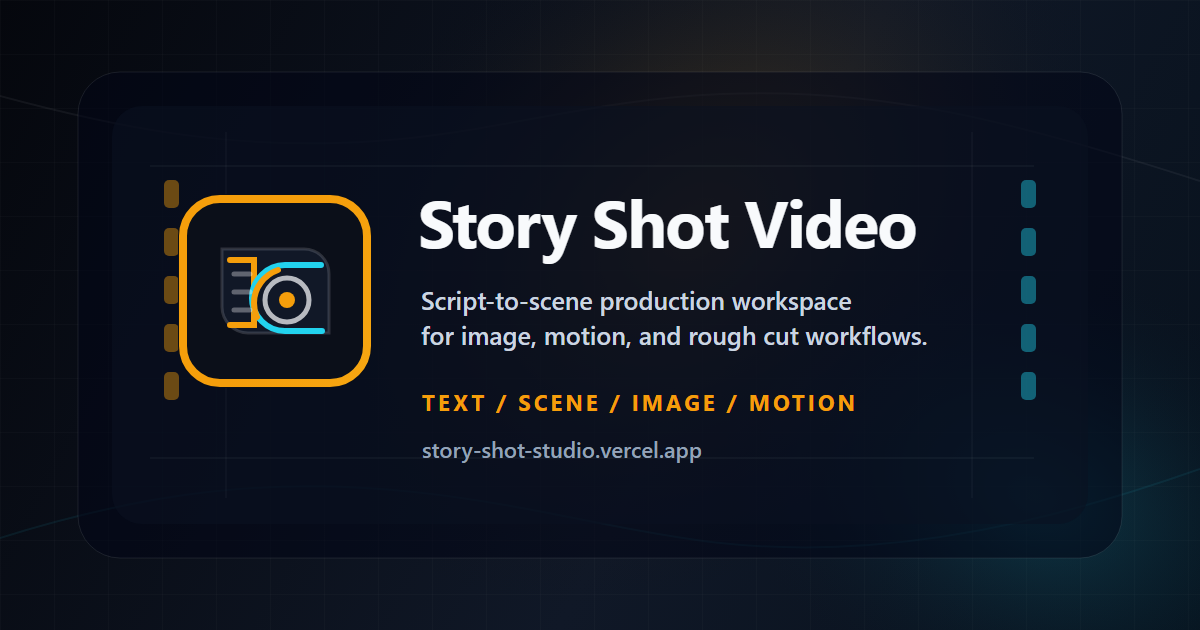
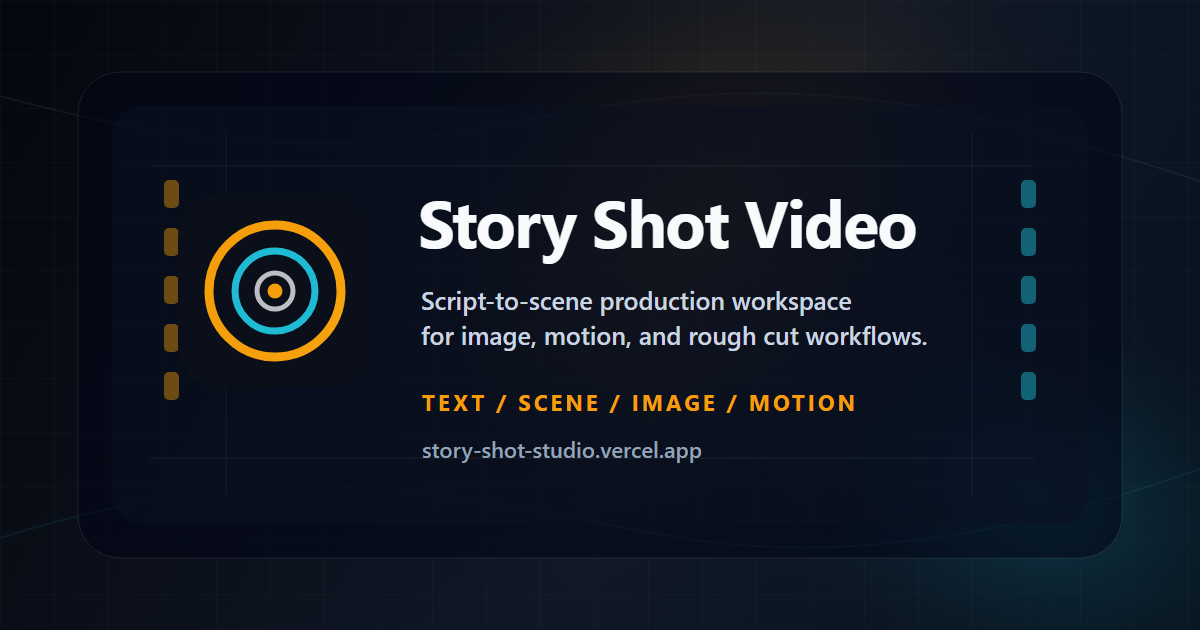
markalaşma v3

Changed region(s): [[0.1233, 0.3016, 0.3083, 0.6333]]

diff --git a/src/components/BrandMark.tsx b/src/components/BrandMark.tsx
@@ -24,26 +24,21 @@ export function BrandIcon({ className }: BrandIconProps) {
       xmlns="http://www.w3.org/2000/svg"
     >
       <defs>
-        <linearGradient id="sss-icon-frame" x1="8" y1="6" x2="41" y2="42" gradientUnits="userSpaceOnUse">
+        <linearGradient id="sss-target-ring" x1="8" y1="7" x2="40" y2="41" gradientUnits="userSpaceOnUse">
           <stop stopColor="#f59e0b" />
           <stop offset="1" stopColor="#22d3ee" />
         </linearGradient>
-        <radialGradient id="sss-icon-glow" cx="0" cy="0" r="1" gradientUnits="userSpaceOnUse" gradientTransform="translate(28 21) rotate(127) scale(22)">
+        <radialGradient id="sss-target-glow" cx="0" cy="0" r="1" gradientUnits="userSpaceOnUse" gradientTransform="translate(24 24) scale(22)">
           <stop stopColor="#f59e0b" stopOpacity="0.35" />
           <stop offset="1" stopColor="#020617" stopOpacity="0" />
         </radialGradient>
       </defs>
       <rect x="2.5" y="2.5" width="43" height="43" rx="12" fill="#0b0f19" />
-      <rect x="2.5" y="2.5" width="43" height="43" rx="12" fill="url(#sss-icon-glow)" />
-      <rect x="4" y="4" width="40" height="40" rx="10.5" stroke="url(#sss-icon-frame)" strokeWidth="2" />
-      <path d="M12 13.5h20.5c3.6 0 6.5 2.9 6.5 6.5v14.5H18.2c-3.7 0-6.7-3-6.7-6.7V13.5Z" fill="#111827" stroke="#f8fafc" strokeOpacity="0.13" />
-      <path d="M13.5 15.5h6.2v17.2h-6.2" stroke="#f59e0b" strokeOpacity="0.8" strokeWidth="1.6" strokeLinecap="round" />
-      <path d="M35.5 17.5h-8.8c-4.6 0-8.4 3.7-8.4 8.4s3.8 8.4 8.4 8.4h9.2" stroke="#22d3ee" strokeOpacity="0.78" strokeWidth="1.7" strokeLinecap="round" />
-      <path d="M25 18.5c-3.5 1.1-6.1 4.4-6.1 8.3 0 1.3.3 2.5.8 3.6" stroke="#f59e0b" strokeWidth="1.7" strokeLinecap="round" />
-      <circle cx="27.3" cy="26.2" r="5.5" stroke="#f8fafc" strokeOpacity="0.72" strokeWidth="1.5" />
-      <circle cx="27.3" cy="26.2" r="2.1" fill="#f59e0b" />
-      <path d="M14 19.5h4M14 24h4M14 28.5h4" stroke="#f8fafc" strokeOpacity="0.32" strokeWidth="1.5" strokeLinecap="round" />
-      <path d="M31.8 13.5l4.9-4.1M36.5 34.5l4.2 3.9" stroke="#22d3ee" strokeOpacity="0.55" strokeWidth="1.5" strokeLinecap="round" />
+      <rect x="2.5" y="2.5" width="43" height="43" rx="12" fill="url(#sss-target-glow)" />
+      <circle cx="24" cy="24" r="16.5" stroke="url(#sss-target-ring)" strokeWidth="3.2" />
+      <circle cx="24" cy="24" r="10.2" stroke="#22d3ee" strokeOpacity="0.88" strokeWidth="2.8" />
+      <circle cx="24" cy="24" r="4.6" stroke="#f8fafc" strokeOpacity="0.75" strokeWidth="2.1" />
+      <circle cx="24" cy="24" r="2" fill="#f59e0b" />
     </svg>
   );
 }